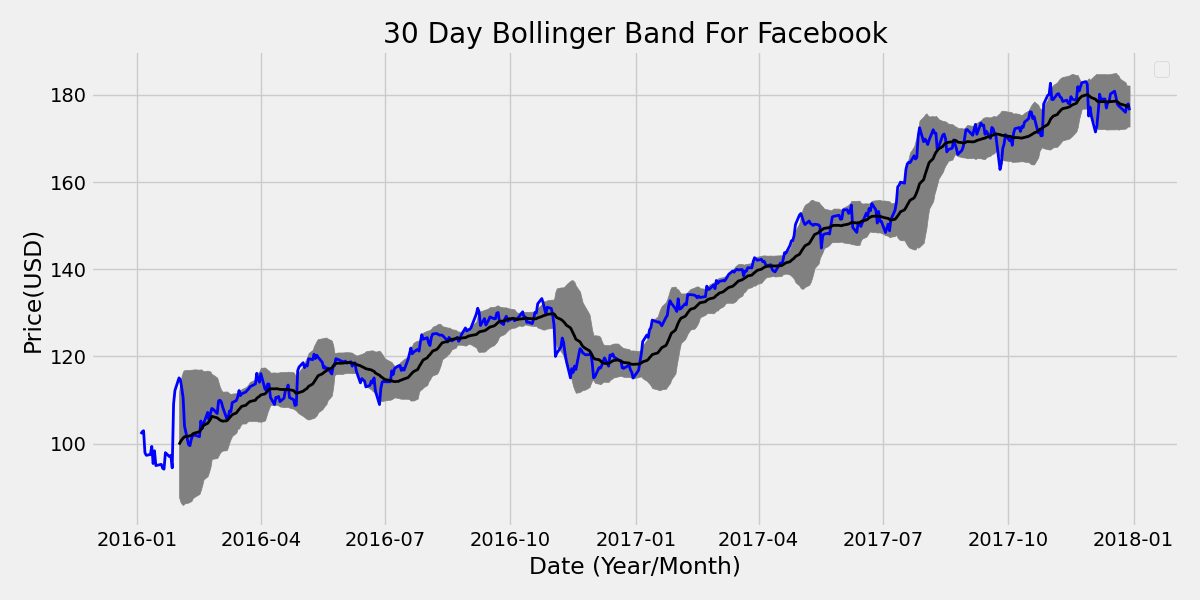
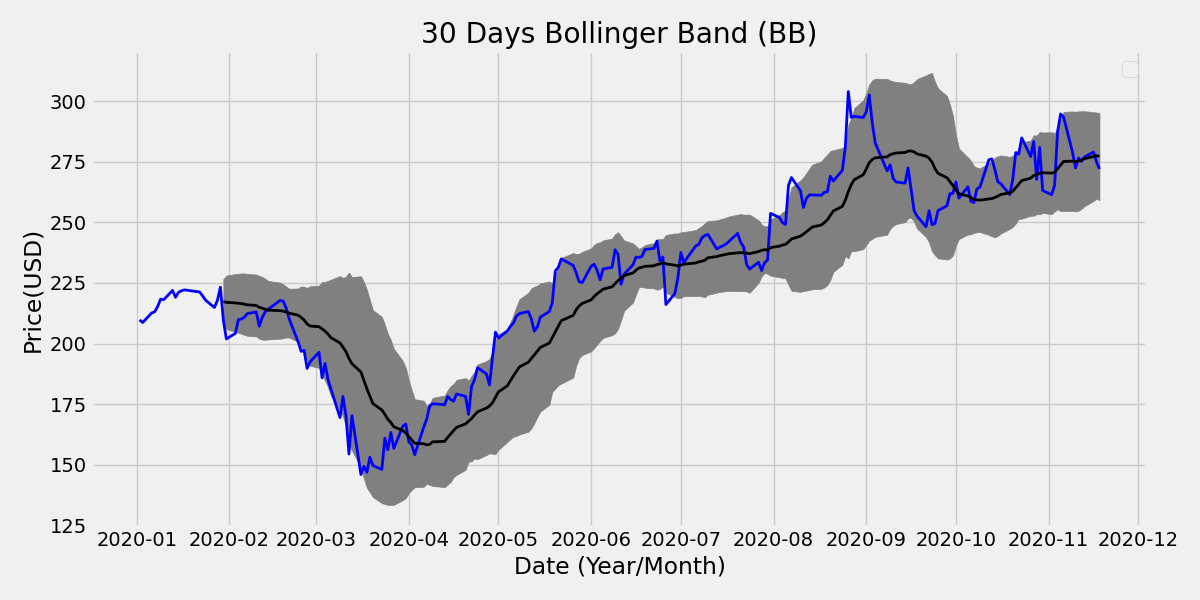
Added the bollinger band in refrences 3

diff --git a/References/BollingerBand.py b/References/BollingerBand.py
@@ -20,9 +20,9 @@ def get_adj_close(ticker, start, end):
 
 
 # Get Adjusted Closing Prices for Facebook, Tesla and Amazon between 2016-2017
-fb = get_adj_close('fb', '1/2/2016', '31/12/2017')
-tesla = get_adj_close('tsla', '1/2/2016', '31/12/2017')
-amazon = get_adj_close('amzn', '1/2/2016', '31/12/2017')
+fb = get_adj_close('fb', '1/2/2020', '31/12/2020')
+tesla = get_adj_close('tsla', '1/2/2020', '31/12/2020')
+amazon = get_adj_close('amzn', '1/2/2020', '31/12/2020')
 
 # Calculate 30 Day Moving Average, Std Deviation, Upper Band and Lower Band
 for item in (fb, tesla, amazon):
@@ -36,13 +36,13 @@ for item in (fb, tesla, amazon):
 
 # Simple 30 Day Bollinger Band for Facebook (2016-2017)
 fb[['Adj Close', '30 Day MA', 'Upper Band', 'Lower Band']].plot(figsize=(12, 6))
-plt.title('30 Day Bollinger Band for Facebook')
+plt.title('30 Days Bollinger Band (BB)')
 plt.ylabel('Price (USD)')
 
 
 # set style, empty figure and axes
 plt.style.use('fivethirtyeight')
-fig = plt.figure(figsize=(12,6))
+fig = plt.figure(figsize=(12, 6))
 ax = fig.add_subplot(111)
 
 # Get index values for the X axis for facebook DataFrame
@@ -56,7 +56,7 @@ ax.plot(x_axis, fb['Adj Close'], color='blue', lw=2)
 ax.plot(x_axis, fb['30 Day MA'], color='black', lw=2)
 
 # Set Title & Show the Image
-ax.set_title('30 Day Bollinger Band For Facebook')
+ax.set_title('30 Days Bollinger Band (BB)')
 ax.set_xlabel('Date (Year/Month)')
 ax.set_ylabel('Price(USD)')
 ax.legend()
